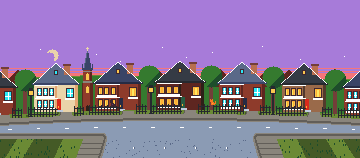
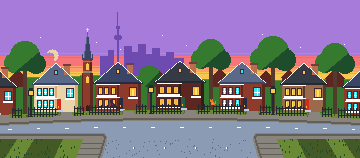
Raise Cabbagetown's skyline: old trees over the roofs, a taller Necropolis spire and the downtown towers far off

diff --git a/art/tools/backdrops.py b/art/tools/backdrops.py
@@ -10,8 +10,10 @@ The band, the approach and the camera come from the game's layout export. The ba
 no static scenery on the near corners or the stub's verges, where the game's road begins and
 its items spawn: only the verge's ground.
 
-Rows, in band rows (0 to 157): the sky is one flat colour above row 45 (CALM), under the
-message strip (Yonge Street's skyline, moon and stars rise above it); the far side's ground row
+Rows, in band rows (0 to 157): the sky is one flat colour above row 45 (CALM), under the message
+strip (band rows 6 to 57 while a message shows), but any neighbourhood's skyline may rise above
+it (Cabbagetown's old trees, chapel spire, far downtown towers and stars; and Yonge Street's
+skyline, moon and stars); the far side's ground row
 115 (BASE), the far sidewalk 119 to 122, the far curb 123 to 124, the cross street 125 to 133
 with its centre line on row 129, the near curb 134 to 135 (none where the cross street has
 none), the near sidewalk 136 to 138, and the stub from row 139 (STUB, the approach) to the
@@ -332,9 +334,11 @@ FAR_WALK, FAR_CURB, CROSS = STUB - 20, STUB - 16, STUB - 14
 LINE = STUB - 10               # the cross street's centre line
 CORNER = 5                     # the near corners' curb radius, in pixels
 BASE = STUB - 24               # the far side's ground row: the houses stand on it
-# The sky above row CALM, 70 rows over the far side's ground row, is one flat colour with no
-# clouds, stars or scenery: the debuff bars and the message strip lie over it. Yonge Street is the
-# exception: its skyline, moon and stars rise above it.
+# The sky above row CALM, 70 rows over the far side's ground row, is one flat colour: the debuff bars and the
+# message strip (band rows 6 to 57 while a message shows) lie over it, so each neighbourhood's main read stays
+# below it. Any neighbourhood's skyline may rise above it, reading half covered while a message shows:
+# Cabbagetown's old trees, chapel spire, far downtown towers and stars; and Yonge Street's skyline, moon and
+# stars.
 CALM = BASE - 70
 
 
@@ -795,10 +799,10 @@ def bay_gable(cv, cx, w, wall, roof, door, base, trim="white", curtains=None):
     cv.fill(bx - 1, top + roof_h + 14, bw + 2, 1, trim)
 
 
-def necropolis(cv, cx, top, base):
+def necropolis(cv, cx, top, base, spire=26):
     """The Necropolis chapel's tower between the roofs, from row top down to row base: red brick banded in
-    stone under its belfry, buttresses below, lit lancets, a pinnacle on each corner, a tall slate spire and a
-    cream cross."""
+    stone under its belfry, buttresses below, lit lancets, a pinnacle on each corner, a slate spire spire rows
+    tall narrowing in steps, and a cream cross."""
     cv.fill(cx - 4, top, 9, base - top, "brick")
     cv.fill(cx + 3, top, 2, base - top, "dbrick")
     for y in (top + 2, top + 12, top + 13):
@@ -811,33 +815,70 @@ def necropolis(cv, cx, top, base):
     cv.fill(cx - 5, top - 1, 11, 2, "dslate")
     for x in (cx - 5, cx + 5):
         cv.fill(x, top - 5, 1, 4, "dslate")
-    for k in range(17):
-        half = 3 - k // 5
+    for k in range(spire):
+        half = 3 - (k * 4) // (spire + 1)
         cv.fill(cx - half, top - 2 - k, 2 * half + 1, 1, "dslate")
         cv.fill(cx - half, top - 2 - k, 1, 1, "slate")
-    cv.fill(cx, top - 22, 1, 4, "cream")
-    cv.fill(cx - 1, top - 21, 3, 1, "cream")
+    cv.fill(cx, top - spire - 5, 1, 4, "cream")
+    cv.fill(cx - 1, top - spire - 4, 3, 1, "cream")
+
+
+def old_tree(cv, cx, top, r, base, leaf="canopy", shade="pine", trunk="bark"):
+    """A mature street tree on row base: a 4-wide trunk under a wide crown of three lobes whose top row is
+    top, the big one radius r over two smaller ones low on each side, shaded lower right."""
+    cy = top + r
+    lobes = ((cx, cy, r), (cx - round(r * 0.75), cy + round(r * 0.45), round(r * 0.7)),
+             (cx + round(r * 0.75), cy + round(r * 0.5), round(r * 0.68)))
+    cv.fill(cx - 2, cy, 4, base - cy, trunk)
+    for px in range(cx - 2 * r, cx + 2 * r + 1):
+        for py in range(top, cy + 2 * r):
+            if any((px + 0.5 - lx) ** 2 + (py + 0.5 - ly) ** 2 <= lr * lr for lx, ly, lr in lobes):
+                lit = (px - cx) + 1.2 * (py - cy)
+                cv.fill(px, py, 1, 1, shade if lit > r * 0.55 else leaf)
+
+
+def downtown(cv, base, col="violet"):
+    """The downtown towers far off to the southwest, one flat silhouette of col standing on row base:
+    flat-topped slabs of differing heights and the CN Tower's antenna, SkyPod, main pod and shaft."""
+    for x, w, top in ((100, 8, 56), (108, 6, 50), (124, 8, 46), (132, 6, 52), (138, 8, 44), (146, 6, 54),
+                      (152, 8, 48), (160, 6, 56), (166, 8, 52), (174, 10, 58)):
+        cv.fill(x, top, w, base - top, col)
+    tx = 118
+    cv.fill(tx - 1, 34, 2, base - 34, col)
+    cv.fill(tx - 4, 36, 8, 3, col)
+    cv.fill(tx - 3, 35, 6, 1, col)
+    cv.fill(tx - 3, 39, 6, 1, col)
+    cv.fill(tx - 2, 26, 4, 3, col)
+    cv.fill(tx - 1, 29, 2, 5, col)
+    cv.fill(tx - 1, 12, 1, 14, col)
 
 
 CHAPEL = 87   # the Necropolis chapel's column: the gap between the second and third houses, left treeless
+# the old trees behind the houses, in the gaps between them: (column, crown's top row, radius)
+OLD_TREES = ((25, 42, 15), (211, 44, 14), (273, 40, 16), (335, 44, 14))
+YOUNG_TREE = 149   # the gap in front of the downtown towers, a young tree that leaves them in view
 
 
 def cabbagetown():
     cv = sn.Canvas(W, H)
-    # a lavender dusk, a last gold glow behind the roofs, a crescent moon and the first stars
-    rows = sunset(cv, ("lilac", "pink", "peach", "gold"), BASE)
+    # a lavender dusk, a last gold glow over the hills, a crescent moon and the first stars
+    cv.fill(0, 0, W, CALM, "lilac")
+    rows = bands(cv, CALM, BASE - 36, ("lilac", "pink", "peach", "gold"))
+    cv.fill(0, BASE - 36, W, 36, "gold")
     for dy in range(-6, 7):
         for dx in range(-6, 7):
             if dx * dx + dy * dy <= 36 and (dx + 3) ** 2 + (dy - 2) ** 2 > 25:
                 cv.fill(CX - 128 + dx, CALM + 10 + dy, 1, 1, "cream")
     for x, y in ((40, 4), (96, 9), (162, 2), (212, 7), (262, 1), (344, 11), (120, 16), (300, 14), (186, 12)):
-        if CALM + y < rows[0][1] - 6:
-            cv.fill(x, CALM + y, 1, 1, "white")
-    # the old neighbourhood behind: brick roofs up a leafy rise, the Necropolis chapel's spire
+        if CALM - 12 + y < rows[0][1] - 6:
+            cv.fill(x, CALM - 12 + y, 1, 1, "white")
+    # far off, the downtown towers; then the old neighbourhood: brick roofs up a leafy rise, the Necropolis
+    # chapel's spire
+    downtown(cv, BASE - 30)
     hills(cv, BASE - 40, BASE, "canopy", "olive", 3.1, 6)
     roofline(cv, BASE - 28, ((10, 16, 8), (40, 14, 6), (150, 16, 8), (212, 16, 9), (258, 16, 7),
                              (282, 14, 9), (326, 18, 8)), "dbrick")
-    necropolis(cv, CHAPEL, BASE - 46, BASE)
+    necropolis(cv, CHAPEL, BASE - 56, BASE)
 
     def road(x, z, span, px, py):
         if abs(x) >= ROAD - 4:
@@ -848,12 +889,11 @@ def cabbagetown():
              (118, 46, "brick", "dslate", "navy", "gold"), (180, 48, "dbrick", "shale", "forest", "gold"),
              (242, 46, "brick", "slate", "navy", None), (304, 44, "clay", "shale", "ttc", "gold"),
              (366, 44, "brick", "dslate", "forest", None))
-    for k in range(len(homes) - 1):
-        cx = (homes[k][0] + homes[k + 1][0]) // 2
-        if cx == CHAPEL:
-            continue
+    for cx, top, r in OLD_TREES:
         lift = crescent_bend(cx)
-        tree(cv, cx, BASE - 34 - lift, "canopy", "pine", r=11, base=BASE - lift, girth=4)
+        old_tree(cv, cx, top - lift, r, BASE - lift)
+    lift = crescent_bend(YOUNG_TREE)
+    tree(cv, YOUNG_TREE, BASE - 34 - lift, "canopy", "pine", r=11, base=BASE - lift, girth=4)
     for cx, w, wall_c, roof, door, curtains in homes:
         lift = crescent_bend(cx)
         bay_gable(cv, cx, w, wall_c, roof, door, BASE - lift, curtains=curtains)

diff --git a/art/style-guide.md b/art/style-guide.md
@@ -327,7 +327,7 @@ People, traffic, lawn animals and sky movers that pass by with no collisions and
 
 Backdrops are 360×158 on screen rows 48 to 205 (`art/tools/backdrops.py`); band row y is screen row 48 + y. The band, its approach rows and the camera come from `shared/export/layout.json`. The street ends at a T-junction: the approach rows continue the road's projection (in play the road surface scrolls over them), and above them runs a flat cross street, beyond which the far side faces the camera. The tool's docstring lists the rows.
 
-- Above the far side's front row the scenery goes back in depth, not taller. The debuff bars and the message strip lie over the band's top rows, so the sky above row 45 is one flat colour with no clouds, stars or scenery. Yonge Street is the exception: its skyline, moon and stars rise above row 45, under the bars' and the strip's opaque plates.
+- The debuff bars and the message strip lie over the band's top rows (the strip on rows 6 to 57, while a message shows), so the sky above row 45 is one flat colour and each neighbourhood's main read stays below the strip. Any neighbourhood's skyline may rise above row 45, under the bars' and the strip's opaque plates, where scenery that rises into the strip still reads half covered: Cabbagetown's old trees, the Necropolis chapel's spire and the far downtown towers, the CN Tower among them, with its first stars above them; and Yonge Street's skyline, moon and stars.
 - Darkness varies: The Beaches bright and open, the Distillery District at golden hour, High Park under a clear blue sky, Cabbagetown at dusk, Yonge Street an evening downtown and Kensington Market darkest, a Pedestrian Sunday at twilight.
 - The CN Tower is huge and close on Yonge Street's skyline, the tallest structure in the city: its antenna runs off the band's top over the SkyPod and its window ring, the main pod, 43 wide with its lit window rings in 2px clusters, sits near the top, and the shaft flares from 9 columns under the pod to 29 at the street, widening faster toward its foot as the real tower's three legs do. The other towers step up toward the top third below the pod, and those either side of its shaft stay low. The message strip covers band rows 6 to 57 while a message shows, so the screens and signs sit below row 57.
 - Yonge Street's night is lit in big, clean shapes, never speckle: windows in 2×2 blocks lit in runs along each floor, the 2× LIVE! screen and its ad screens, a WOOF! screen on the glass tower at the left, 2px marquee bulbs (the EATON CENTRE sign, the ELGIN blade, the SHOW marquee), the street's glow a ramp step up the towers' feet, and each lit podium's light on the far sidewalk. It is seen from far off: building masses, lit window runs, screens and signs, with no doors, shopfronts, awnings or people; the Eaton Centre is one huge glass mall under its galleria vault, with no entrance.
@@ -338,7 +338,7 @@ Backdrops are 360×158 on screen rows 48 to 205 (`art/tools/backdrops.py`); band
 
 ## Skies
 
-- Each neighbourhood has its own sky, flat above `CALM` (70 rows over the far side's ground row) but for Yonge Street's towers. Ink edges hold 3:1 or more on every sky but Kensington Market's violet and purple (2.8:1 and 2.0:1), where a sky mover reads by its fills.
+- Each neighbourhood has its own sky, flat above `CALM` (70 rows over the far side's ground row) but for what rises into it: Cabbagetown's trees, spire and downtown towers; and Yonge Street's towers. Ink edges hold 3:1 or more on every sky but Kensington Market's violet and purple (2.8:1 and 2.0:1), where a sky mover reads by its fills.
 
 | Sky                                   | Bands or colours                                                     | Where                                          |
 | ------------------------------------- | -------------------------------------------------------------------- | ---------------------------------------------- |
